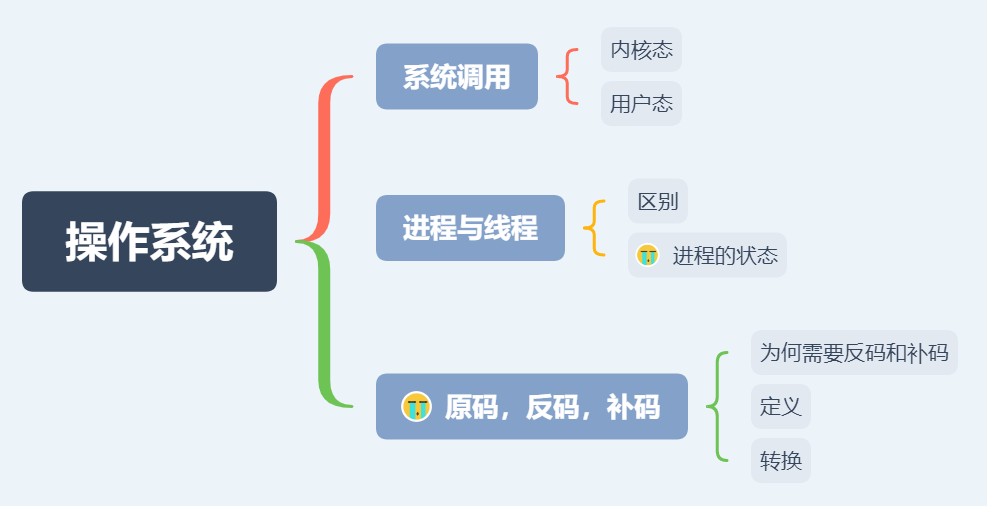
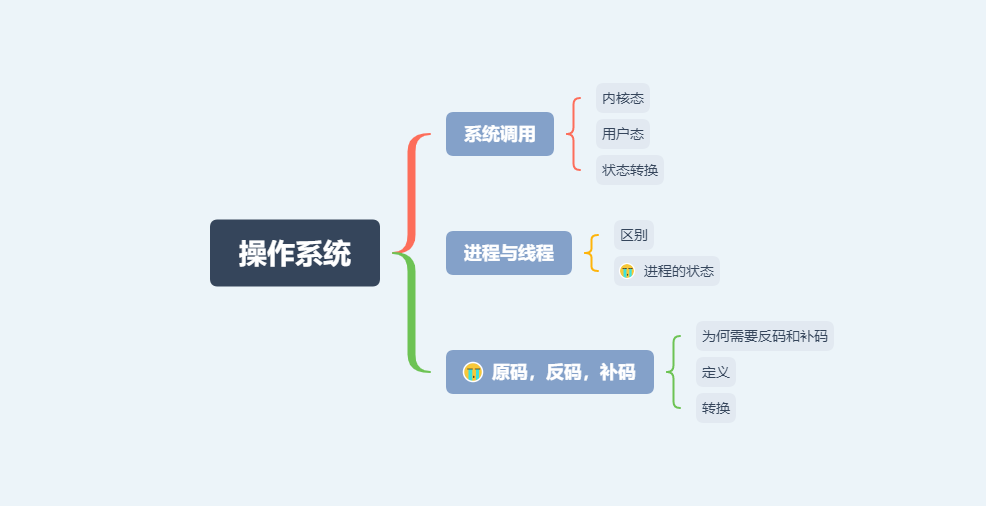
update

diff --git a/docs/操作系统/operatingsystem.md b/docs/操作系统/operatingsystem.md
@@ -3,4 +3,33 @@
 ## 思维导图
 
 ![操作系统](../../xmind/操作系统.png)
-<!-- <img src="../../xmind/操作系统.png" alt="操作系统" style="zoom:50%;" /> -->
+
+## 思维扩展
+
+### 系统调用
+
+#### 内核态
+
+权限等级最高。可以执行任何cpu指令，也可以引用任何内存地址，包括外围设备, 例如硬盘, 网卡等
+
+#### 用户态
+
+只有有限的权限。有一部分内存是仅为内核态使用的，用户态code则不允许访问那些内存地址，每个进程只允许访问自己申请到的内存。而且不允许访问外围设备。另外在执行cpu指令的时候也可以被高优先级抢占
+
+#### 状态转换
+
+用户程序跑在用户态下，但是如果需要执行一些操作例如申请内存，网络读写时，自己的权限不够，就需要转换到内核态去让内核的code帮忙干一些事情
+
+### 进程与线程
+
+#### 区别
+
+#### 进程的状态
+
+### 原码、反码与补码
+
+#### 定义
+
+#### 转换
+
+#### 为何需要反码和补码

diff --git a/README.md b/README.md
@@ -8,7 +8,13 @@
 
 ## JVM
 
-[JVM](docs/JVM/调优命令.md)
+### 垃圾回收
+
+- [垃圾回收](docs/JVM/垃圾回收.md)
+
+### 调优命令
+
+- [调优命令](docs/JVM/调优命令.md)
 
 ## Java
 

diff --git a/docs/JVM/垃圾回收.md b/docs/JVM/垃圾回收.md
@@ -1,0 +1,5 @@
+# 垃圾回收
+
+## 回收算法
+
+## 垃圾回收器
